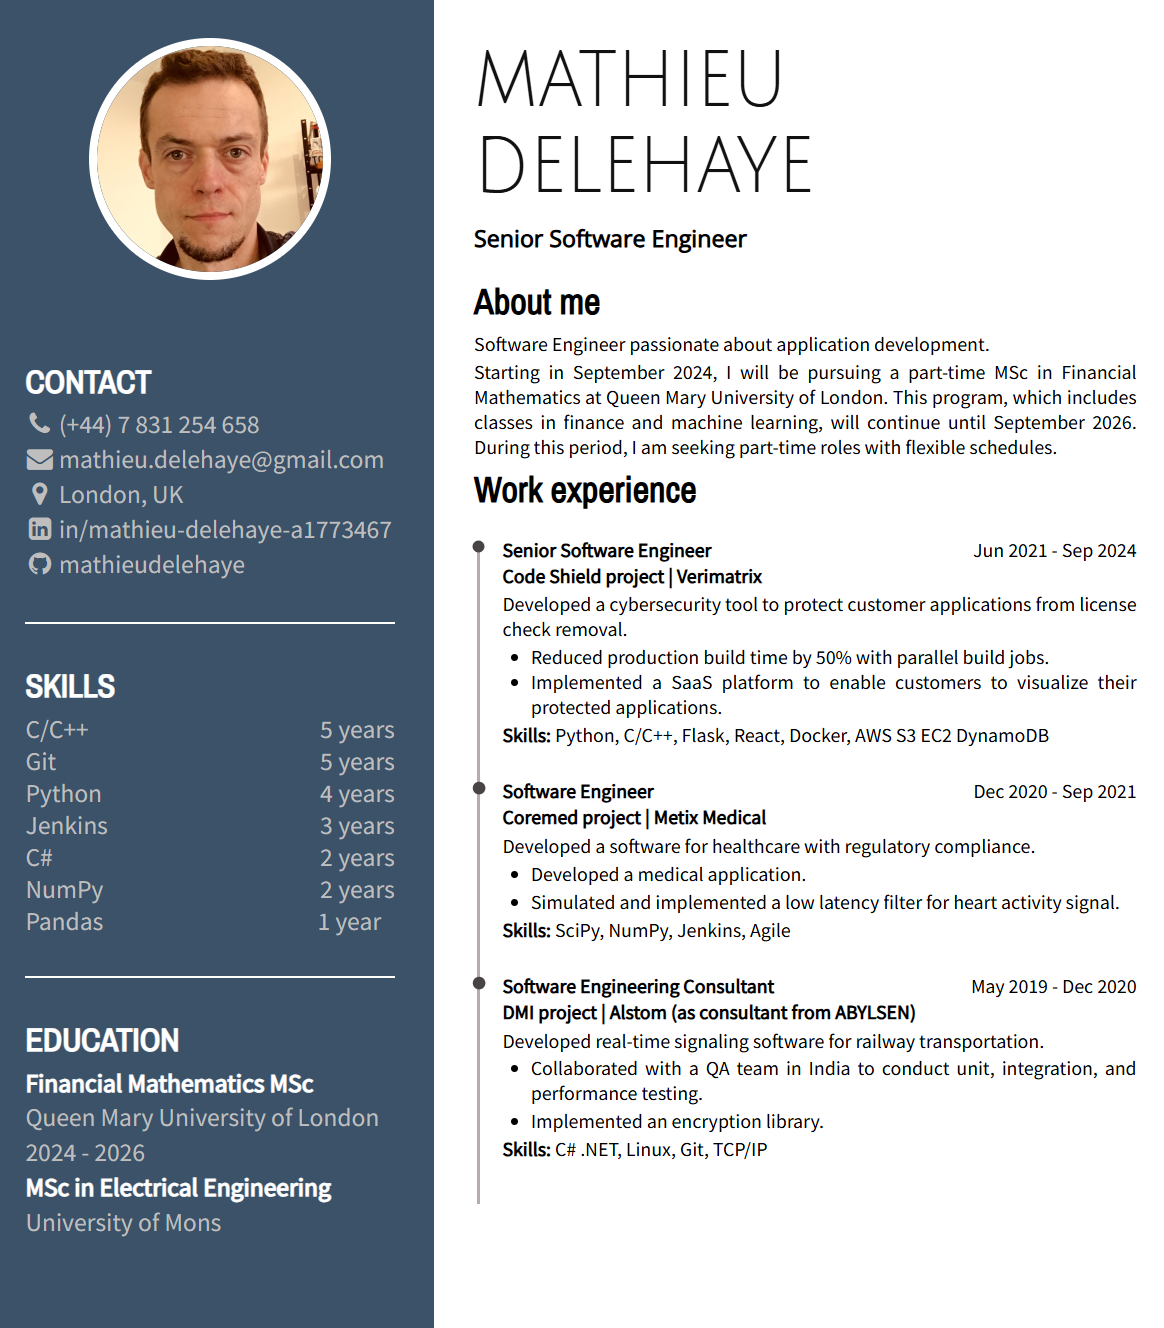
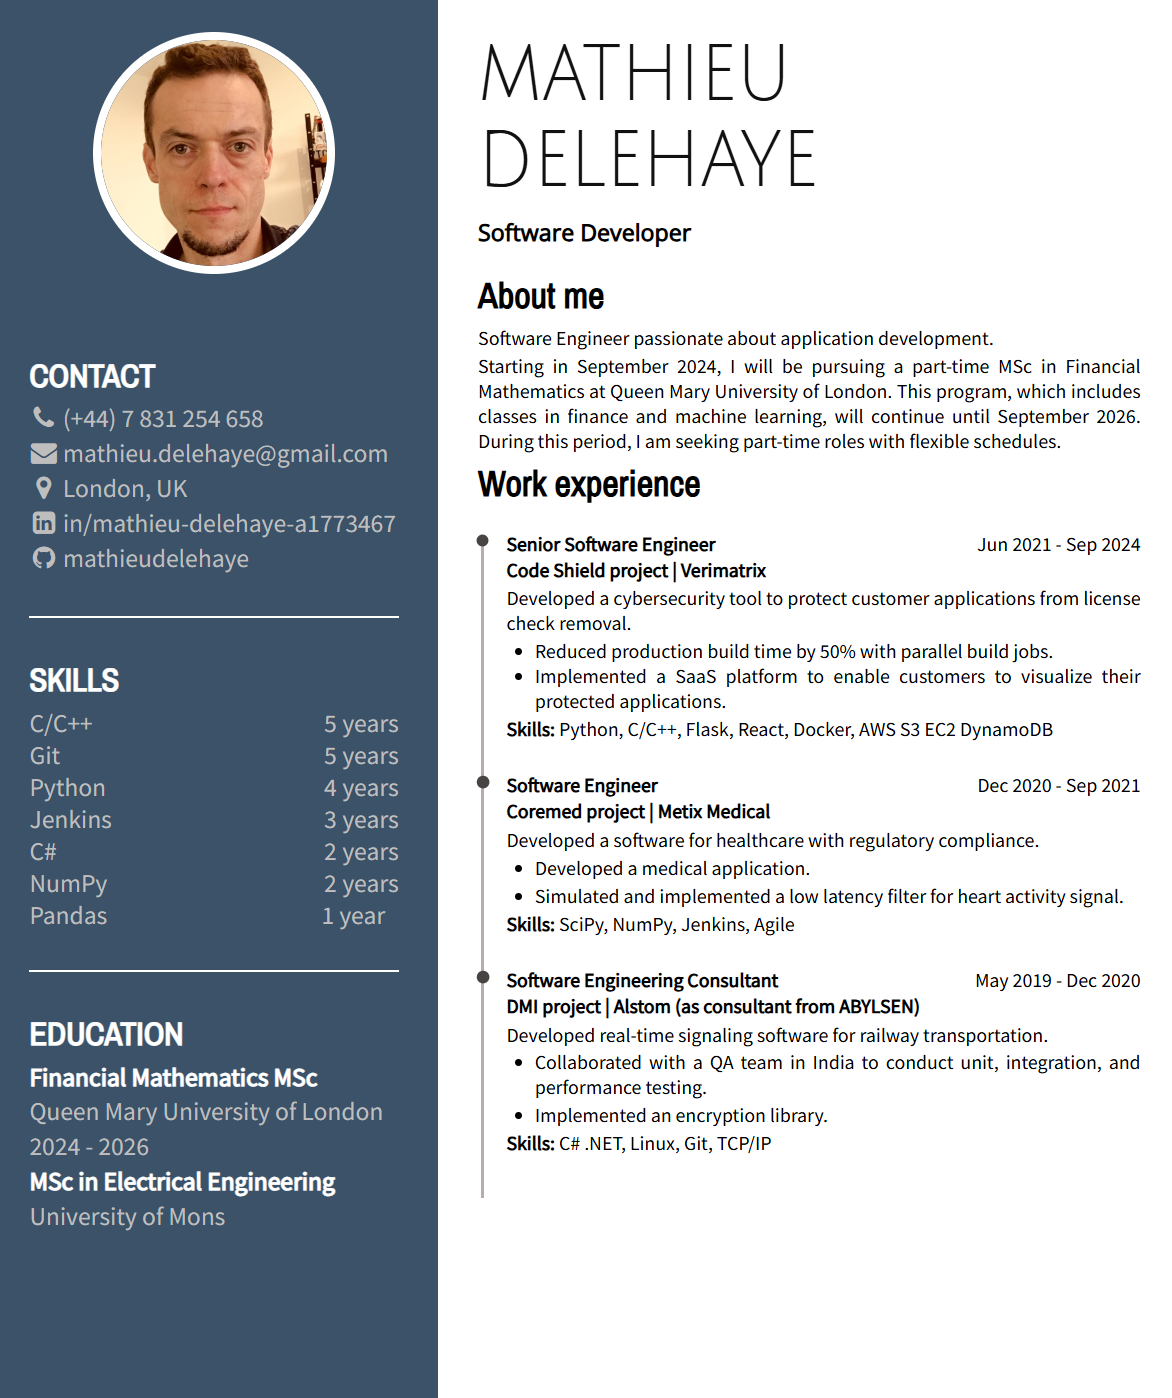
Resume updated

diff --git a/index.html b/index.html
@@ -156,7 +156,7 @@
           </h1>
           <div class="smallText">
             <h3>
-              Senior Software Engineer
+              Software Developer
             </h3>
           </div>
         </div>
